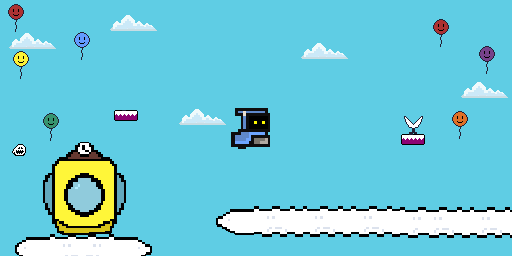
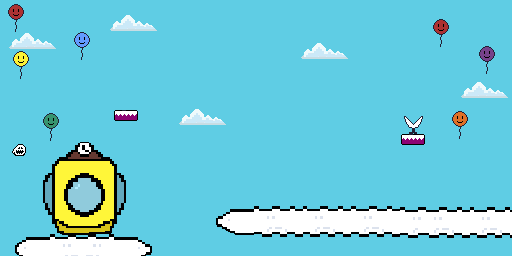
fixed responsiveness by adding separate sprite

Changed region(s): [[0.4375, 0.4062, 0.5312, 0.5938]]

diff --git a/index.html b/index.html
@@ -76,8 +76,8 @@
         /* --- HERO PROMO SECTION --- */
         .hero-promo {
             width: 100%;
-            min-height: 600px; 
-            background-image: url('images/promo4.png'); 
+            min-height: 500px; 
+            background-image: url('images/promo3.png'); 
             background-size: cover;
             background-position: bottom center;
             position: relative; 
@@ -86,19 +86,22 @@
             justify-content: center;
             align-items: center;
             text-align: center;
-            padding: 60px 20px;
+            padding: 50px 20px;
             box-sizing: border-box;
         }
-        @media (max-width: 768px) {
-            .hero-promo {
-                background-image: url('images/promo3.png'); /* Overrides to just center on mobile devices */
-            }
-        }
+       .hero-player {
+            width: 100%;
+            min-height: 00px; 
+            background-size: cover;
+            display: flex;
+            box-sizing: border-box;
+            background-image: url('images/sprite.png');
+       }
         .hero-promo::before {
             content: '';
             position: absolute;
             top: 0; left: 0; right: 0; bottom: 0;
-            background: rgba(0, 0, 0, 0.4); 
+            background: rgba(0, 0, 0, 0.3); 
             z-index: 1;
         }
 
@@ -125,7 +128,8 @@
             height: auto;       
             display: block;
             filter: drop-shadow(0 8px 16px rgba(0, 0, 0, 0.7)); 
-            
+            position: relative;
+            padding-top: 50px;
             -webkit-user-select: none; 
             -ms-user-select: none;     
             user-select: none;         
@@ -141,7 +145,7 @@
             width: 100%;
             position: relative;
             z-index: 3;
-            margin-top: 10px;
+            
         }
         
         .hero-buttons a {
@@ -295,6 +299,13 @@
                 max-width: 300px;
             }
         }
+        .hero-player-sprite {
+            width: 200px; /* upscale to desired size, e.g., 128px is 8x scaling */
+            image-rendering: pixelated; /* ensures the browser upscales with sharp edges */
+            position: relative;
+            padding-bottom: 70px;
+            z-index: 1;
+        }
     </style>
 </head>
 <body>
@@ -318,6 +329,7 @@
                 <img src="images/title.png" alt="Title Logo" class="hero-title-img">
             </div>
         </div>
+        <img src="images/sprite.png" alt="Player Character" class="hero-player-sprite" sizes="64x64">
         <div class="hero-buttons">
             <a href="https://store.steampowered.com" target="_blank" rel="noopener noreferrer" class="btn-steam">
                 Wishlist on Steam
